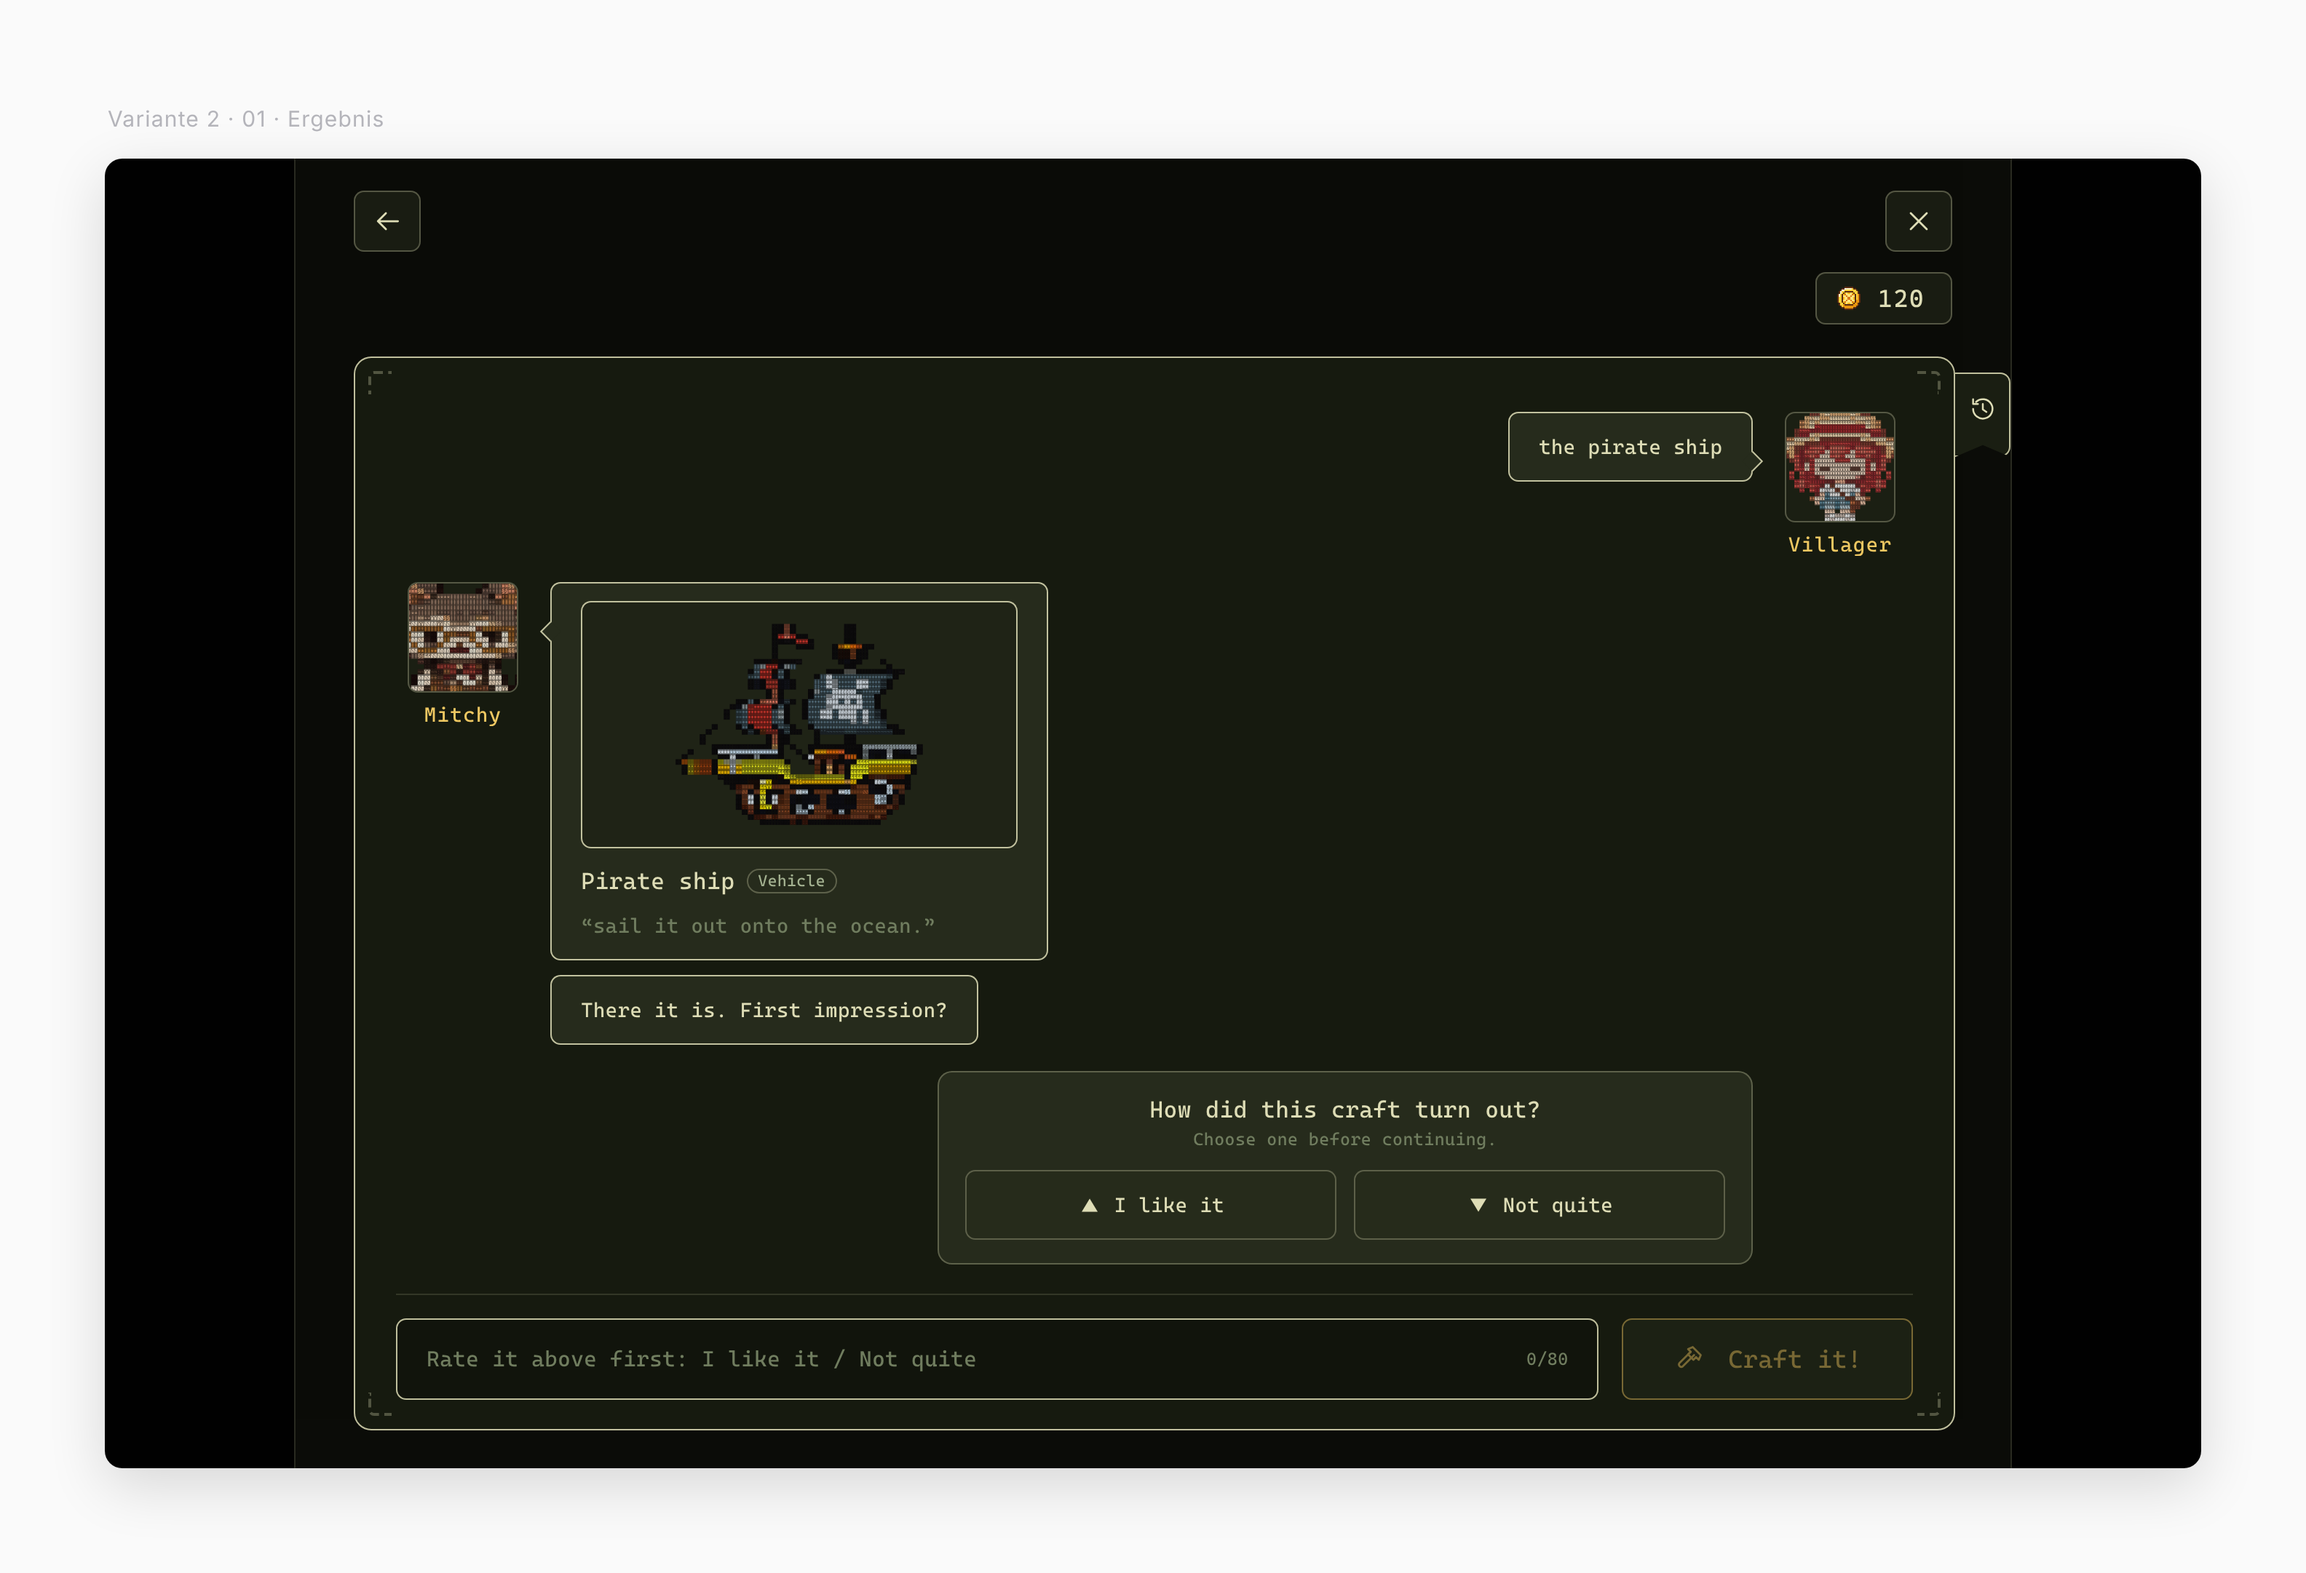
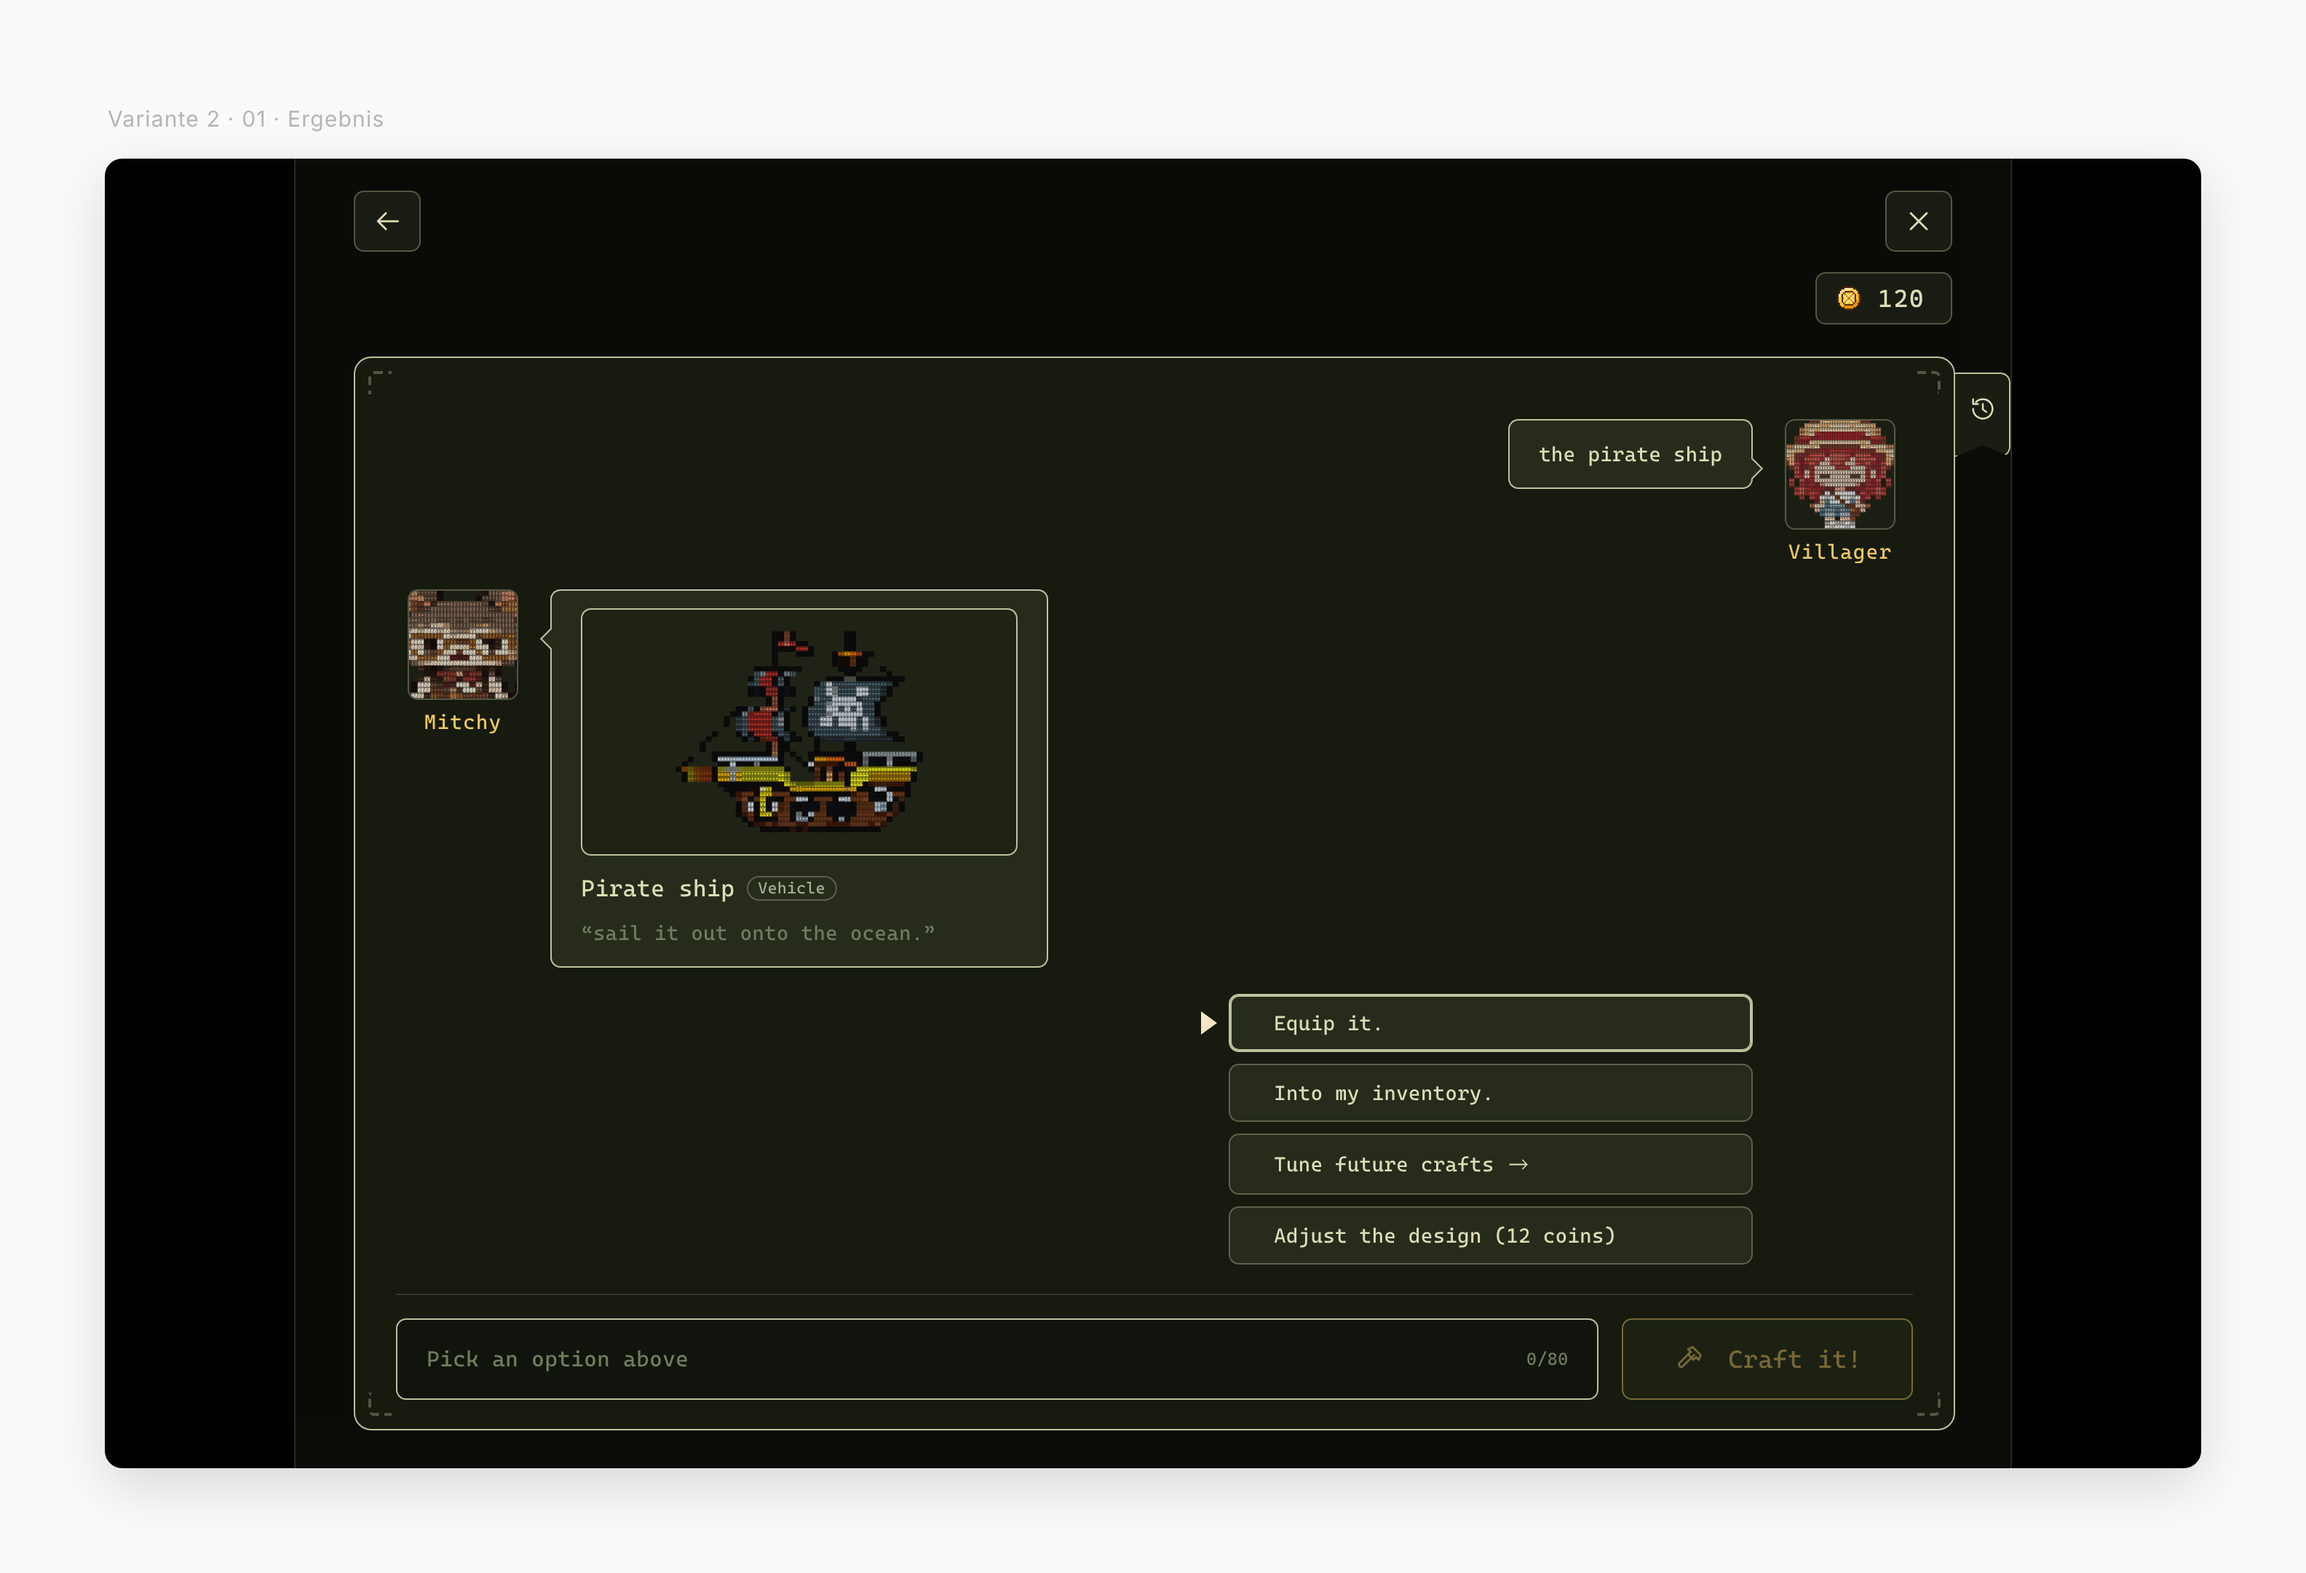
Variante 2: Slide 1 mit Optionen statt Bewertung; Standard-Piratenschiff als SVG
Claude-Session: https://claude.ai/code/session_01SdonzUkZukdS6Hs9N1LRbm

diff --git a/design/crafting-specs/specs.md b/design/crafting-specs/specs.md
@@ -65,7 +65,7 @@ SVGs je Ecke: `shared/ecken/` (einzelne Rechtecke, direkt in Figma ziehen).
 | Vote-Button | 255 × 48 · pad 14 10 · r 7 · gap 12 |
 
 ## Variante 2 · Feedback
-Durchlauf `v2/`: „the pirate ship“ → Ergebnis → I like it → Tune: Detail **Less**, Colour **Pastel**, Surprise **Surprise me**, Unknown words übersprungen, **This session** → Preferences saved → Back to the workshop → **Adjust it with these** → „a pirate ship“ → Recraft mit „made with: Fewer glyphs · Pastel colours · Surprise me“ (Asset `shared/craft/variante-b-pastell-punkte.svg`).
+Durchlauf `v2/`: „the pirate ship“ → Ergebnis mit Optionen (Asset `shared/craft/variante-b-standard.svg`) → Tune: Detail **Less**, Colour **Pastel**, Surprise **Surprise me**, Unknown words übersprungen, **This session** → Preferences saved → Back to the workshop → **Adjust it with these** → „a pirate ship“ → Recraft mit „made with: Fewer glyphs · Pastel colours · Surprise me“ (Asset `shared/craft/variante-b-pastell-punkte.svg`).
 
 | Komponente | Maße |
 |---|---|
